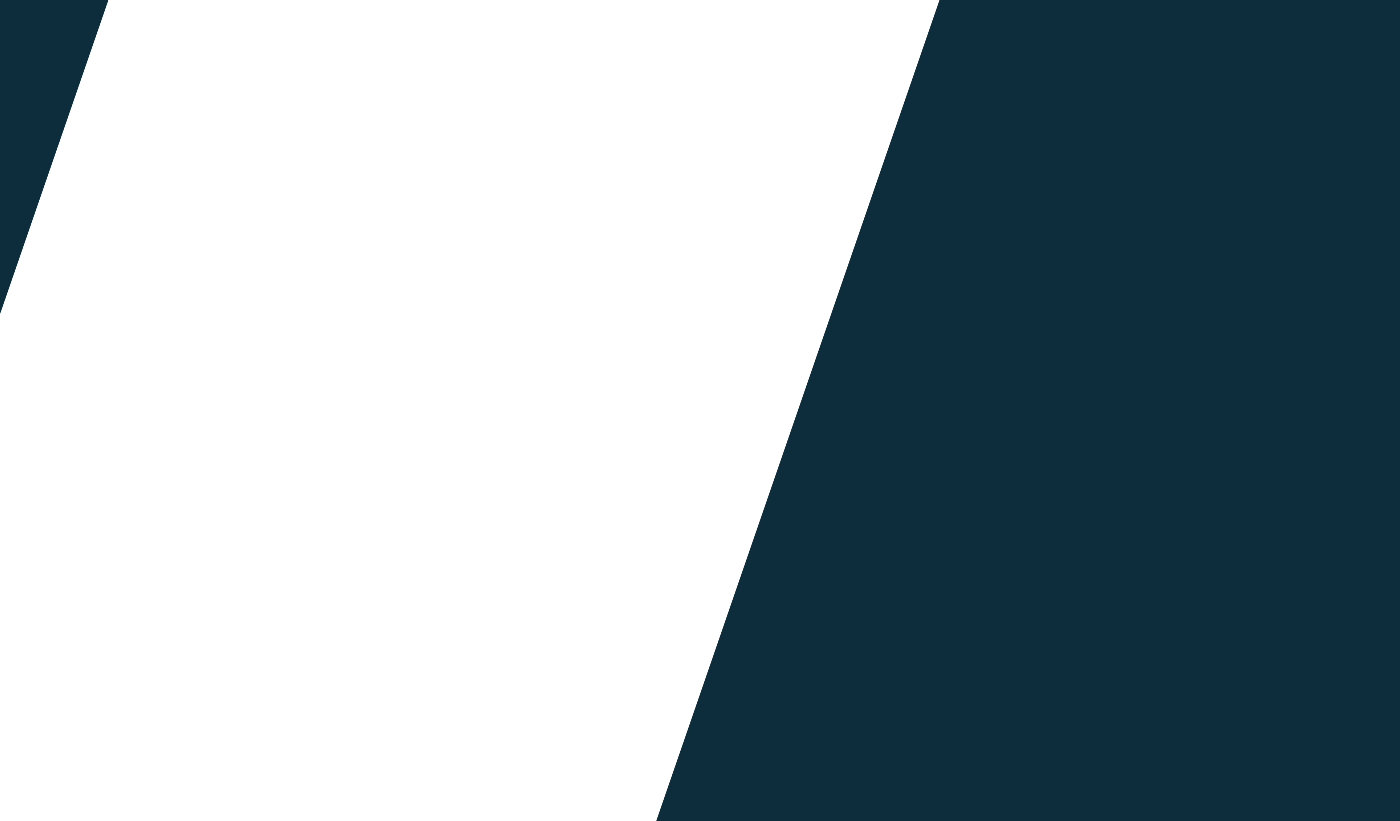
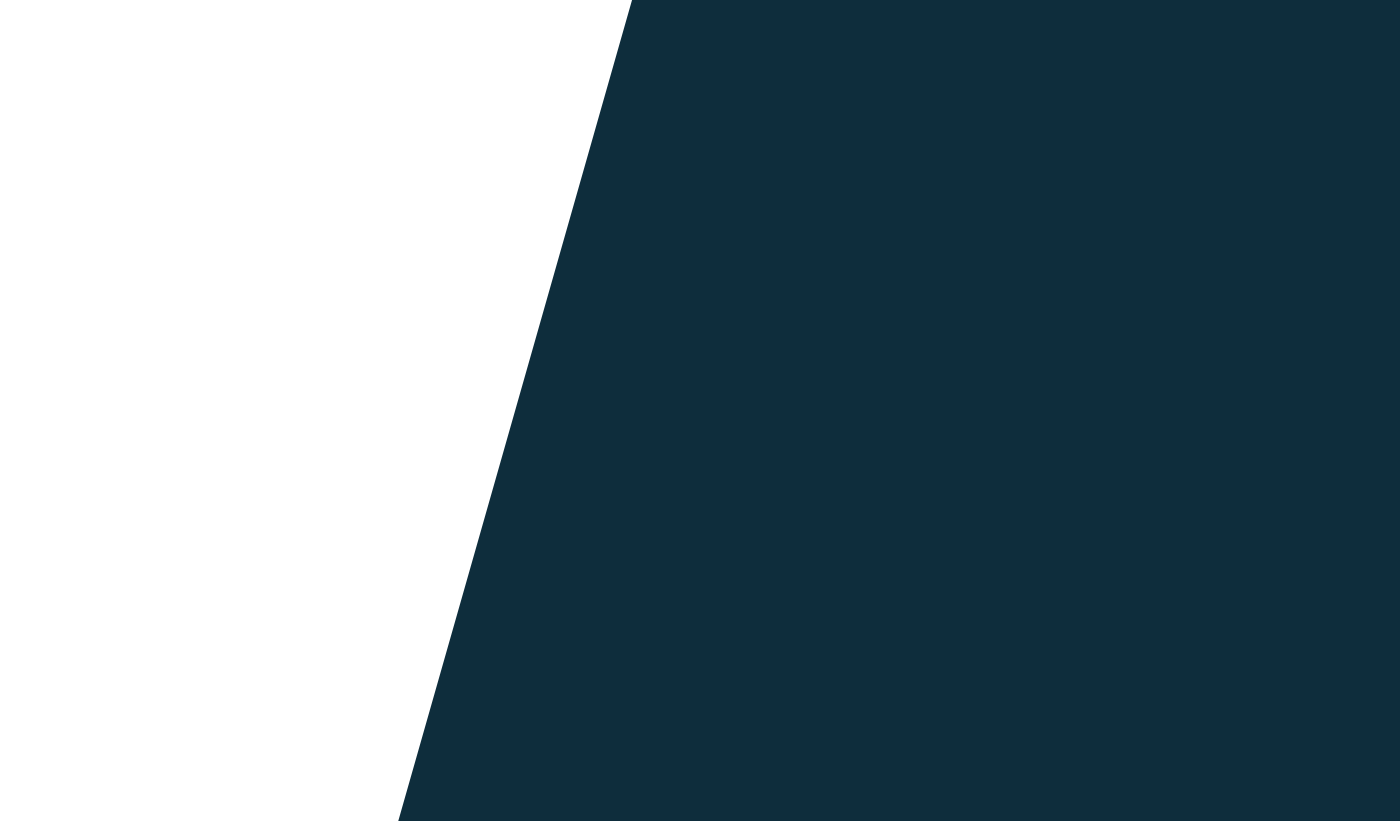
change
Back background image

Changed region(s): [[0.2764, 0.0, 0.6757, 1.0], [0.0, 0.0, 0.0921, 0.3654]]

diff --git a/css/Main.css b/css/Main.css
@@ -1,5 +1,5 @@
 body{
-    background-image: url(../MyBlog/Chair.jpg);
+    background-image: url(../MyBlog/Gray_B_Background.jpg);
     background-size: cover;
     background-repeat: no-repeat;
     background-attachment: fixed;
